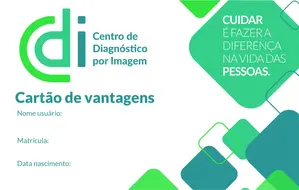
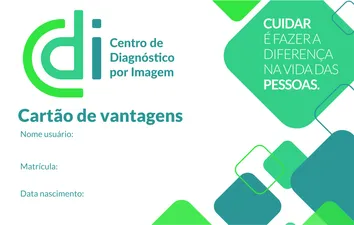
cartãoes dos dependentes listados na área dos meus cartões

diff --git a/resources/views/cartao.blade.php b/resources/views/cartao.blade.php
@@ -165,14 +165,33 @@
     .card-container {
         /* background-color: #3f8492 !important; */
         background-image:url("{{url('template/assets/img/card-bg-min.webp')}}");
-        width: 300px;
-        height: 190px;
+        width: 354px;
+        height: 225px;
         position: relative;
         background-size: cover;
         background-position: center;
         background-repeat: no-repeat;
         border-radius: 3px;
         box-shadow: rgb(0 0 0 / 40%) 0px 2px 10px, rgb(0 0 0 / 30%) 0px 7px 13px -3px, rgb(0 0 0 / 20%) 0px -3px 0px inset;
+    }
+
+    .card-container p {
+        position: absolute;
+        font-size: small;
+        font-weight: 700;
+        left: 20px;
+    }
+
+    .card-container p:nth-child(1) {
+        bottom: 52px;
+    }
+
+    .card-container p:nth-child(2) {
+        bottom: 22px;
+    }
+
+    .card-container p:nth-child(3) {
+        bottom: 2px;
     }
 
 </style>
@@ -193,7 +212,7 @@
             <div class="row">
                 <div class="col d-flex">
                     <div class="m-auto">
-                        <h2 class="color-white fs-1">Meu Cartão</h2>
+                        <h2 class="color-white fs-1">Meus Cartões</h2>
                         </a>
                     </div>
                 </div>
@@ -221,21 +240,39 @@
                 <!-- heading ends -->
 
                 <!--== row 1 starts ==-->
-                <div class="row wow fadeInUp" data-wow-delay="0.2s" style="visibility: visible; animation-delay: 0.2s; animation-name: fadeInUp;">
-                   <div class="col-md-12">
-                    {{-- <div class="card text-white mb-3" style="max-width: 18rem;">
-                        <div class="card-header fs-4">Cartão 001</div>
-                        <div class="card-body fs-6">
-                            <h5 class="card-title text-light">Cartão em andamento</h5>
-                            <p class="card-text lh-sm">Estamos produzindo o seu cartão e te informaremos assim que ele estiver pronto.</p>
+                <div class="row wow fadeInUp mb-3" data-wow-delay="0.2s" style="visibility: visible; animation-delay: 0.2s; animation-name: fadeInUp;">
+                    <p class="fw-bold">Titular</p>
+                    <hr>
+                    <div class="row">
+                        <div class="col-xl-4 col-lg-6 col-md-6 mb-3">
+                            <div class="card-container">
+                                <p>{{Auth::user()->nome}}</p>
+                                <p>{{Auth::user()->cpf}}</p>
+                                <p>{{Auth::user()->nascimento}}</p>
+                            </div>
                         </div>
-                    </div> --}}
-                    <div class="card-container">
-
                     </div>
-                   </div>
                 </div>
                 <!--== row 1 ends ==-->
+                <!--== row 2 starts ==-->
+                <div class="row wow fadeInUp" data-wow-delay="0.4s" style="visibility: visible; animation-delay: 0.4s; animation-name: fadeInUp;">
+                    <p class="fw-bold">Dependentes</p>
+                    <hr>
+                    <div class="row">
+                        @isset(Auth::user()->dependentes)
+                        @foreach (Auth::user()->dependentes as $dependente)
+                        <div class="col-xl-4 col-lg-6 col-md-6 mb-3">
+                        <div class="card-container">
+                            <p>{{$dependente->nome}}</p>
+                            <p>{{$dependente->cpf}}</p>
+                            <p>{{$dependente->nascimento}}</p>
+                        </div>
+                        </div>
+                        @endforeach
+                        @endisset
+                    </div>
+                </div>
+                <!--== row 2 ends ==-->
 
             </div>
         </section>

diff --git a/resources/views/public/nav.blade.php b/resources/views/public/nav.blade.php
@@ -46,7 +46,7 @@
                     <li> <a class="nav-link" href="{{url('/')}}#services" role="menuitem" tabindex="-1">Vantagens</a> </li>
                     <li> <a class="nav-link" href="{{url('/')}}#faq" role="menuitem" tabindex="-1">Perguntas frequentes</a> </li>
                     <li> <a class="nav-link"  data-bs-toggle="modal" href="#contatoModal" role="menuitem" tabindex="-1">Contato</a> </li>
-                    <li> <a class="nav-link"  role="menuitem" tabindex="-1" href="@if(Auth::check()) {{ Auth::user()->hasRole(config("constants.ROLES.CLIENTE.name")) ? route('cliente.cartao') : route('cliente.login') }} @else {{ route('cliente.login') }} @endif">Meu Cartão</a> </li>
+                    <li> <a class="nav-link"  role="menuitem" tabindex="-1" href="@if(Auth::check()) {{ Auth::user()->hasRole(config("constants.ROLES.CLIENTE.name")) ? route('cliente.cartao') : route('cliente.login') }} @else {{ route('cliente.login') }} @endif">Meus Cartões</a> </li>
                     @if (Auth::check())
                     @if(Auth::user()->hasRole(config("constants.ROLES.CLIENTE.name")))
                         <li> <a class="nav-link" role="menuitem" tabindex="-1" href="{{route('cliente.logout')}}">Sair</a> </li>
@@ -84,7 +84,7 @@
                     <li> <a class="nav-link" href="{{url('/')}}#services">Vantagens</a> </li>
                     <li> <a class="nav-link" href="{{url('/')}}#faq">Perguntas frequentes</a> </li>
                     <li> <a class="nav-link" data-bs-toggle="modal" href="#contatoModal" role="button">Contato</a> </li>
-                    <li> <a class="nav-link meu-cartao" href="@if(Auth::check()) {{ Auth::user()->hasRole(config("constants.ROLES.CLIENTE.name")) ? route('cliente.cartao') : route('cliente.login') }} @else {{ route('cliente.login') }} @endif">Meu Cartão</a> </li>
+                    <li> <a class="nav-link meu-cartao" href="@if(Auth::check()) {{ Auth::user()->hasRole(config("constants.ROLES.CLIENTE.name")) ? route('cliente.cartao') : route('cliente.login') }} @else {{ route('cliente.login') }} @endif">Meus Cartões</a> </li>
                     @if (Auth::check())
                         @if(Auth::user()->hasRole(config("constants.ROLES.CLIENTE.name")))
                             <li class="ms-0"> <a class="nav-link my-2 btn-sair text-white" href="{{route('cliente.logout')}}">Sair</a> </li>

diff --git a/resources/views/admin/clientes/edit.blade.php b/resources/views/admin/clientes/edit.blade.php
@@ -90,7 +90,7 @@
                                         <div class="field item form-group">
                                             <label class="col-form-label col-md-3 col-sm-3  label-align">Data de nascimento</label>
                                             <div class="col-md-6 col-sm-6">
-                                                <input class="form-control" class='date' type="date" name="nascimento"  value="{{ date("Y-m-d", strtotime($cliente->nascimento)) }}" </div>
+                                                <input class="form-control" class='date' type="date" name="nascimento"  value="{{ date("Y-m-d", strtotime($cliente->nascimento)) }}" ></div>
                                         </div>
                                         <div class="field item form-group">
                                             <label class="col-form-label col-md-3 col-sm-3  label-align">Sexo</label>
